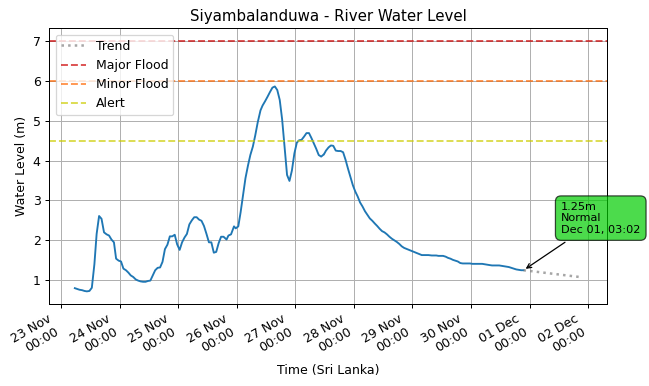
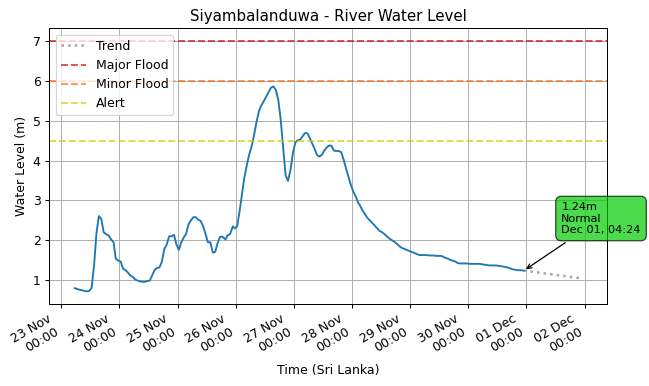
🤖 [update_latest.yml] 2025-11-30-2302

diff --git a/README.md b/README.md
@@ -1,11 +1,11 @@
 # lk_irrigation 🇱🇰
 
 ![Status: Live](https://img.shields.io/badge/status-live-brightgreen)
-![LastUpdated](https://img.shields.io/badge/last_updated-2025--12--01_04:09:46-green)
+![LastUpdated](https://img.shields.io/badge/last_updated-2025--12--01_04:24:56-green)
 
 Realtime Data about *River Water Levels* in Sri Lanka, from the [Irrigation Deptartment](https://www.irrigation.gov.lk)'s [Hydrology and Disaster Management](https://www.irrigation.gov.lk/web/index.php?option=com_content&view=article&id=27&Itemid=128&lang=en) Division.
 
-- [Complete Dataset](data/rwlds) with **6,373 measurements** from **39** stations.
+- [Complete Dataset](data/rwlds) with **6,375 measurements** from **39** stations.
 - [Scrape and load logic](src/lk_irrigation/rwld/RiverWaterLevelDataLoadMixin.py)
 - [Original Data source](https://www.arcgis.com/apps/dashboards/2cffe83c9ff5497d97375498bdf3ff38)
 
@@ -15,10 +15,12 @@ Realtime Data about *River Water Levels* in Sri Lanka, from the [Irrigation Dept
 
 ## Latest measurements
 
-*There were **34** measurements in the last **1 hour**.*
+*There were **32** measurements in the last **1 hour**.*
 
 | Measured At | Station (River Basin) | Level (m) | Alert Level | Rate-of-Rise (m/hr) | Rising Alert |
 | --- | --- | ---: | --- | ---: | --- |
+| 2025-12-01 04:24:56 | Siyambalanduwa (Heda Oya) | 1.24 | 🟢 Normal | -0.007 |  |
+| 2025-12-01 04:23:44 | Norwood (Kelani Ganga) | 1.43 | 🟢 Normal | 0.318 | 🔺 Rising |
 | 2025-12-01 04:09:46 | Kuda Oya (Kirindi Oya) | 1.94 | 🟢 Normal | 0.000 |  |
 | 2025-12-01 04:07:44 | Badalgama (Maha Oya) | 4.69 | 🟢 Normal | -0.097 |  |
 | 2025-12-01 04:07:02 | Hanwella (Kelani Ganga) | 9.88 | 🟠 Minor Flood | -0.070 |  |
@@ -37,7 +39,7 @@ Realtime Data about *River Water Levels* in Sri Lanka, from the [Irrigation Dept
 | 2025-12-01 04:04:04 | Glencourse (Kelani Ganga) | 13.98 | 🟢 Normal | -0.242 |  |
 | 2025-12-01 04:03:58 | Panadugama (Nilwala Ganga) | 3.49 | 🟢 Normal | -0.020 |  |
 | 2025-12-01 04:03:33 | Urawa (Nilwala Ganga) | 0.74 | 🟢 Normal | -0.010 |  |
-| 2025-12-01 04:02:57 | Norwood (Kelani Ganga) | 1.32 | 🟢 Normal | -0.014 |  |
+| 2025-12-01 04:02:57 | Norwood (Kelani Ganga) | 1.32 | 🟢 Normal | 0.318 | 🔺 Rising |
 | 2025-12-01 04:02:50 | Dunamale (Aththanagalu Oya) | 4.62 | 🟠 Minor Flood | -0.176 |  |
 | 2025-12-01 04:02:41 | Moraketiya (Walawe Ganga) | 1.27 | 🟢 Normal | -0.031 |  |
 | 2025-12-01 04:02:18 | Kithulgala (Kelani Ganga) | 2.29 | 🟢 Normal | -0.061 |  |
@@ -49,10 +51,6 @@ Realtime Data about *River Water Levels* in Sri Lanka, from the [Irrigation Dept
 | 2025-12-01 03:50:28 | Giriulla (Maha Oya) | 3.54 | 🟢 Normal | -10.588 |  |
 | 2025-12-01 03:50:11 | Giriulla (Maha Oya) | 3.59 | 🟢 Normal | -10.588 |  |
 | 2025-12-01 03:49:14 | Holombuwa (Kelani Ganga) | 1.42 | 🟢 Normal | -0.098 |  |
-| 2025-12-01 03:22:02 | Dunamale (Aththanagalu Oya) | 4.74 | 🟠 Minor Flood | -0.176 |  |
-| 2025-12-01 03:21:15 | Putupaula (Kalu Ganga) | 4.29 | 🟠 Minor Flood | 0.013 | 🔺 Rising |
-| 2025-12-01 03:20:45 | Norwood (Kelani Ganga) | 1.33 | 🟢 Normal | -0.014 |  |
-| 2025-12-01 03:19:15 | Deraniyagala (Kelani Ganga) | 1.43 | 🟢 Normal | -0.017 |  |
 
 ## Latest by Station
 
@@ -75,16 +73,16 @@ Realtime Data about *River Water Levels* in Sri Lanka, from the [Irrigation Dept
 | 2025-12-01 04:02:50 | Dunamale (Aththanagalu Oya) | 4.62 | 🟠 Minor Flood | -0.176 |  |
 | 2025-12-01 04:04:29 | Rathnapura (Kalu Ganga) | 5.95 | 🟡 Alert | -0.050 |  |
 | 2025-12-01 04:04:36 | Horowpothana (Yan Oya) | 7.34 | 🟡 Alert | -7.826 |  |
+| 2025-12-01 04:23:44 | Norwood (Kelani Ganga) | 1.43 | 🟢 Normal | 0.318 | 🔺 Rising |
 | 2025-12-01 04:01:41 | Wellawaya (Kirindi Oya) | 1.23 | 🟢 Normal | 0.000 |  |
-| 2025-12-01 03:02:06 | Siyambalanduwa (Heda Oya) | 1.25 | 🟢 Normal | 0.000 |  |
 | 2025-12-01 04:06:17 | Katharagama (Menik Ganga) | 0.94 | 🟢 Normal | 0.000 |  |
 | 2025-12-01 04:09:46 | Kuda Oya (Kirindi Oya) | 1.94 | 🟢 Normal | 0.000 |  |
 | 2025-12-01 04:06:28 | Thanamalwila (Kirindi Oya) | 1.62 | 🟢 Normal | 0.000 |  |
+| 2025-12-01 04:24:56 | Siyambalanduwa (Heda Oya) | 1.24 | 🟢 Normal | -0.007 |  |
 | 2025-12-01 04:03:33 | Urawa (Nilwala Ganga) | 0.74 | 🟢 Normal | -0.010 |  |
 | 2025-12-01 04:05:23 | Baddegama (Gin Ganga) | 2.23 | 🟢 Normal | -0.010 |  |
 | 2025-12-01 04:01:32 | Nakkala (Kumbukkan Oya) | 1.73 | 🟢 Normal | -0.010 |  |
 | 2025-12-01 04:01:52 | Thawalama (Gin Ganga) | 2.08 | 🟢 Normal | -0.012 |  |
-| 2025-12-01 04:02:57 | Norwood (Kelani Ganga) | 1.32 | 🟢 Normal | -0.014 |  |
 | 2025-12-01 03:19:15 | Deraniyagala (Kelani Ganga) | 1.43 | 🟢 Normal | -0.017 |  |
 | 2025-12-01 04:03:58 | Panadugama (Nilwala Ganga) | 3.49 | 🟢 Normal | -0.020 |  |
 | 2025-12-01 04:05:19 | Yaka Wewa (Ma Oya) | 1.25 | 🟢 Normal | -0.020 |  |
@@ -162,13 +160,13 @@ Realtime Data about *River Water Levels* in Sri Lanka, from the [Irrigation Dept
 
 ![Horowpothana](images/stations/horowpothana.png)
 
+### Norwood (Kelani Ganga)
+
+![Norwood](images/stations/norwood.png)
+
 ### Wellawaya (Kirindi Oya)
 
 ![Wellawaya](images/stations/wellawaya.png)
-
-### Siyambalanduwa (Heda Oya)
-
-![Siyambalanduwa](images/stations/siyambalanduwa.png)
 
 ### Katharagama (Menik Ganga)
 
@@ -181,6 +179,10 @@ Realtime Data about *River Water Levels* in Sri Lanka, from the [Irrigation Dept
 ### Thanamalwila (Kirindi Oya)
 
 ![Thanamalwila](images/stations/thanamalwila.png)
+
+### Siyambalanduwa (Heda Oya)
+
+![Siyambalanduwa](images/stations/siyambalanduwa.png)
 
 ### Urawa (Nilwala Ganga)
 
@@ -197,10 +199,6 @@ Realtime Data about *River Water Levels* in Sri Lanka, from the [Irrigation Dept
 ### Thawalama (Gin Ganga)
 
 ![Thawalama](images/stations/thawalama.png)
-
-### Norwood (Kelani Ganga)
-
-![Norwood](images/stations/norwood.png)
 
 ### Deraniyagala (Kelani Ganga)
 
